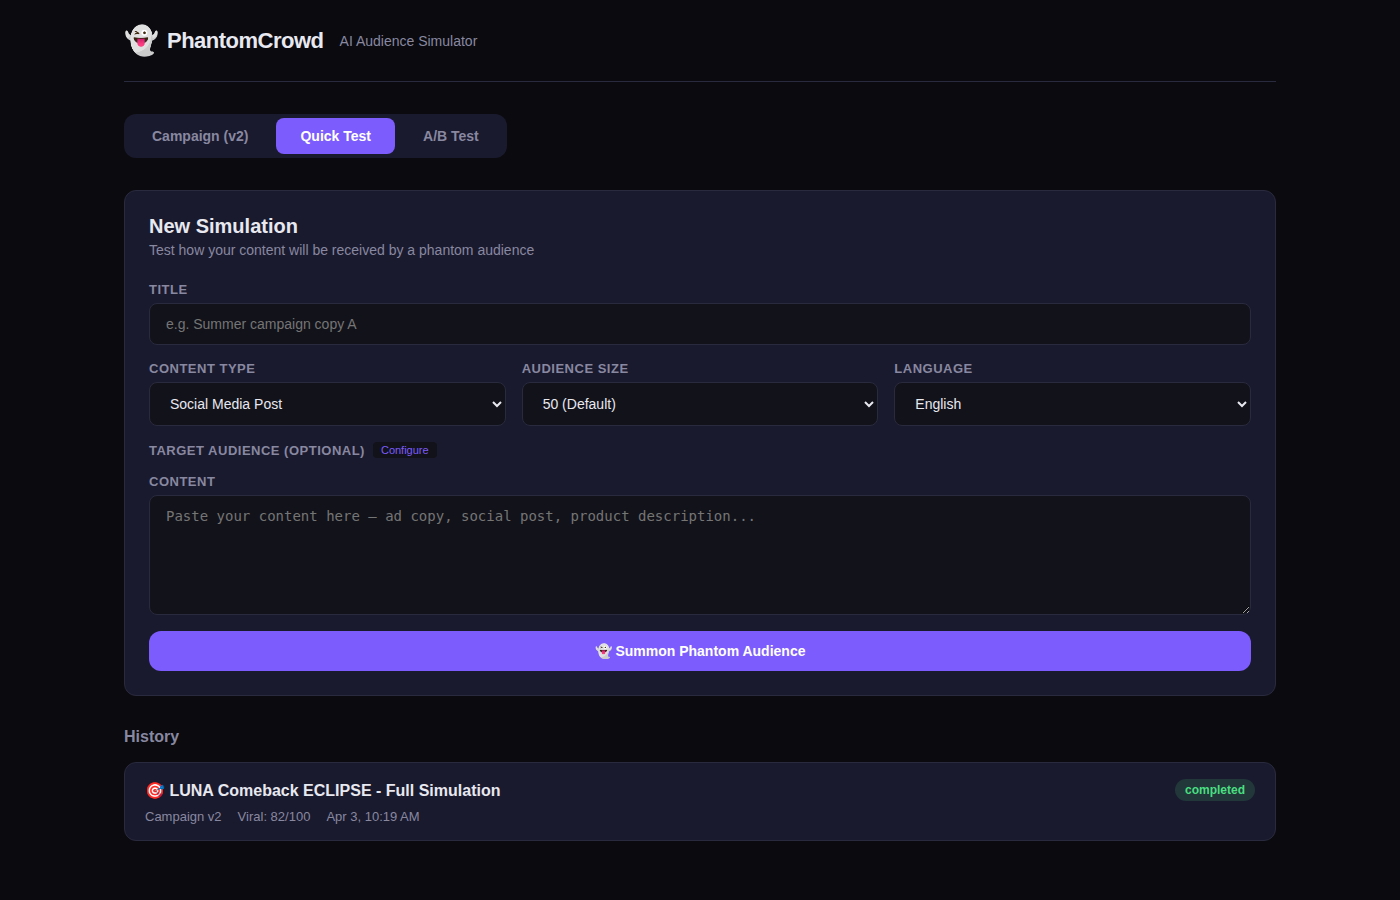
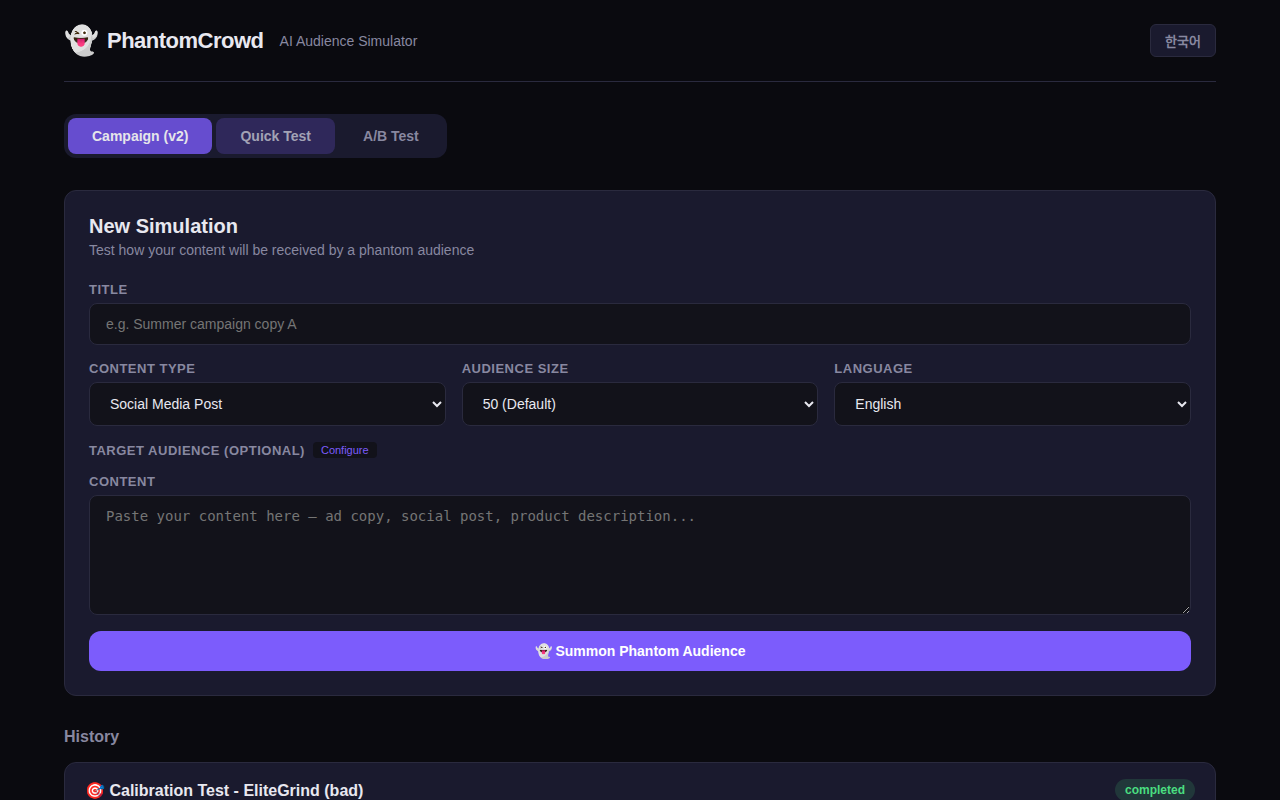
Update all screenshots with latest UI + calibrated viral score
- All 6 screenshots refreshed: Campaign form (with Rule Agents), Quick Test (500 max),
  A/B Test (500 max), Campaign results (graph + agents), Report (Viral Score 78),
  Report + Recommendations + Interview panel
- Add new screenshot 05: full report with recommendations and agent interview
- Remove old 05-campaign-full.png (replaced)
- README: add report + interview screenshot section

diff --git a/README.md b/README.md
@@ -66,7 +66,12 @@ PhantomCrowd is a **multi-agent AI simulation platform** for marketing teams. It
 
 <p align="center">
   <img src="docs/screenshots/06-campaign-report.png" width="80%" alt="Marketing Report">
-  <br><em>AI-generated marketing report with viral score, segment analysis, and recommendations</em>
+  <br><em>Viral Score (calibrated 0-100), agent count, report with segment analysis</em>
+</p>
+
+<p align="center">
+  <img src="docs/screenshots/05-campaign-report-actions.png" width="80%" alt="Report + Recommendations + Interview">
+  <br><em>Full report, actionable recommendations, and post-sim agent interview panel</em>
 </p>
 
 ### Quick Test + A/B Test (v1)
